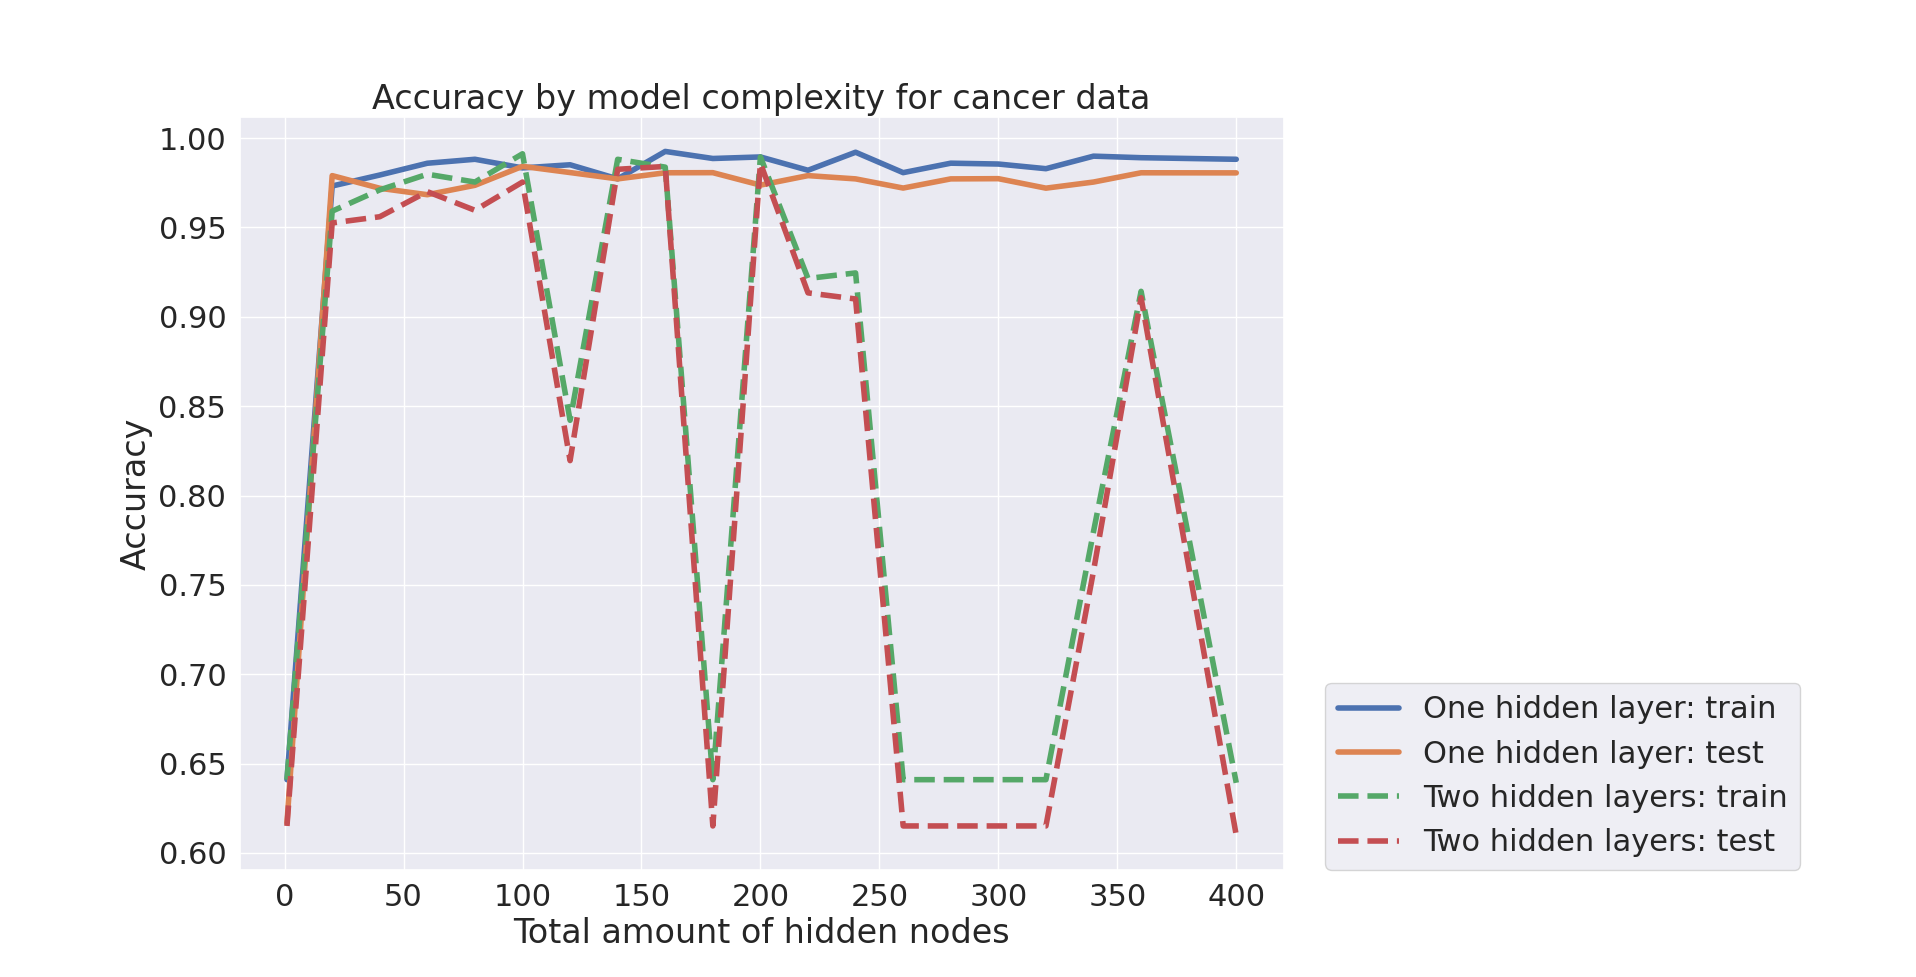
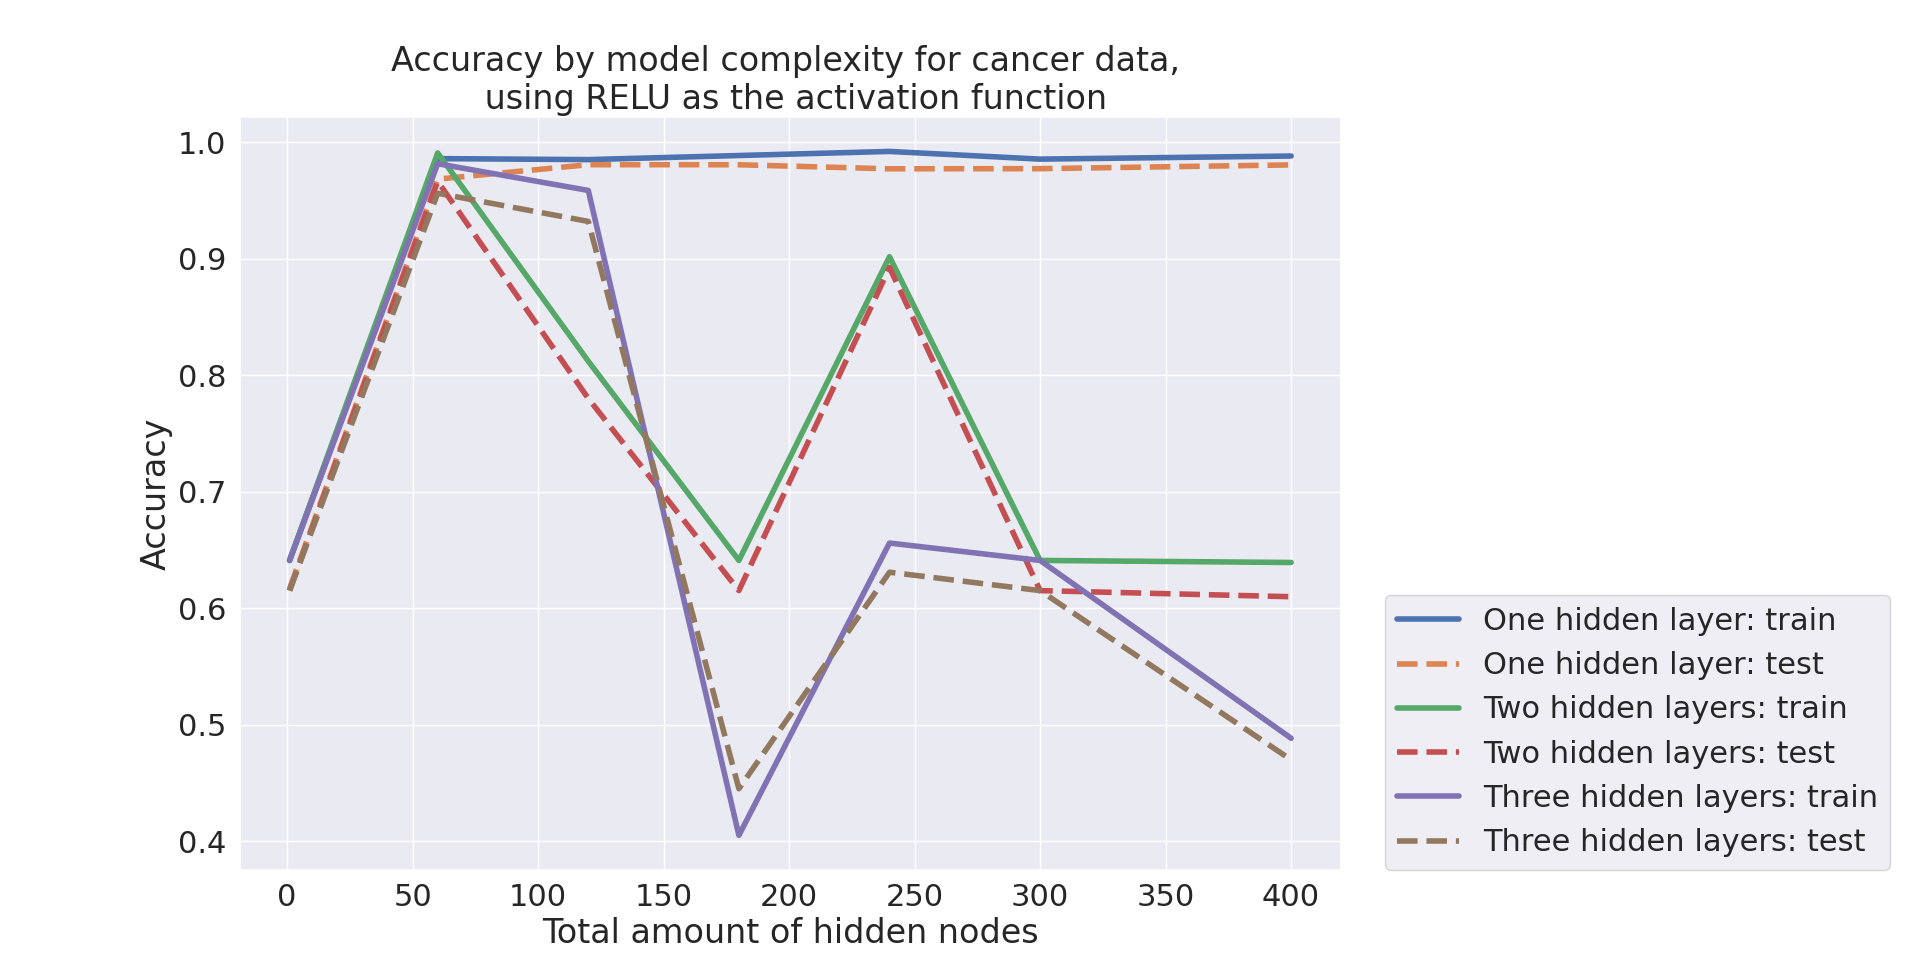
Add stuff

diff --git a/doc/paper.tex b/doc/paper.tex
@@ -103,7 +103,7 @@
 
 \section{Abstract}
 
-We developed a Feed Forward Neural Network (FFNN) and applied it to many common datasets used for benchmarking machine learning algorithms. Furthermore, we compared our results to those attained by linear and logistic regression. To optimize our network, we explored the use of different schedulers in our gradient descent method, and compared their performance against eachother. Overall, we found that our FFNN performed well in all classification tasks we tested, attaining test accuracies between $95$ and $100$ percent for all classification problems. However, we also found that simple logistic regression performed similarly, with a much lower computational cost. For regression on real terrain data, we found that our neural network slightly outperformed our previous polynomial fit, attaining an MSE of MONKEY, PERCENT percent lower than simple linear regression. In our gradient descent, we found that SCHEDULER performed best, being 1 BILLION percent better than the average of all other methods.
+We developed a Feed Forward Neural Network (FFNN) and applied it to both regression and classification problems. Furthermore, we compared our results to those attained by linear and logistic regression. To optimize our network, we explored the use of different schedulers in our gradient descent method, and compared their performance against eachother. Amongst our schedulers, we found that Adam and Adagrad performed the best. Overall, we found that our FFNN performed well in both classification tasks we tested, attaining a test accuracy of $98.76$ on the Wisconsin Breast Cancer Dataset and a test accuracy of $99.07$ on the MNIST 8x8 dataset. However, we also found that simple logistic regression performed similarly, with a much lower computational cost. For regression applied to the Franke Function, we found that our neural net performed worse than a simple polynomial fit using linear regression, attaining a MSE of $0.007$, more than twice as high as the one achieved using linear regression.
 
 %we found our neural net lacking, not being able to beat our polynomial fit from our previous project, and only attaining an MSE of 1 BILLION, which is 2000 BILLION lower than our best polynomial fit of the Franke Function. 
 
@@ -127,14 +127,6 @@ Many problems in machine learning cannot be solved analytically. Thus, we turn t
 In this paper we will investigate implantations of the numerical optimization technique of gradient descent by researching stochastic gradient descent, along with constant, adaptive and momentum-enhanced schedulers with the aim of decreasing the computational cost of our calculations. We will study different supervised learning models which utilize gradient descent such as linear regression, logistic regression and a feed forward neural network (FFNN) in order to gain an understanding of model selection across regression, binary- and multi-class classification problems.
 
 First, we will give an explanation of the methods and theory used in this paper, followed up by a presentation and critical discussion of our results. Finally, we will provide a conclusion summarizing the core results and lessons.
-
-% Neural Networks are all the rage these days, everyone wants to have a neural network in their home. Ive even seen people install neural networks in their dogs. \cite{ericjona}
-
-% Neural networks are powerful tools, able to solve many different problems with 
-
-%%%%%%%%%%%%%%%%%%%%%%%%%%%%%%%%%%%%%%%%%%%%%%%%%%%%%%%%%%%%%%%%%%%%%%
-
-
 
 \section{Method}
 
@@ -264,10 +256,6 @@ Below is a short description of each dataset used in this report, along with a t
 
 The Franke Function is a simple weighted sum of polynomials, taking two inputs and returning a real value. It is commonly used to test machine learning algorithms for regression problems.
 
-\subsubsection{Elevation data over Norway}
-
-This data is similar to the Franke Function in that it takes two inputs (x and y coordinates) and returns a real value, which is the elevation of a specific point in Norway.
-
 \subsubsection{Wisconsin Breast Cancer Dataset}
 
 This dataset contains 30 features describing important characteristics of tumors. The features are real numbers. Each instance has an associated class, indicating whether the tumor was benign or not. This leads to a binary classification problem.
@@ -285,7 +273,6 @@ This dataset contains a preprocessed set of black and white images of hand drawn
 Dataset & Number of instances & Features & Type \\
 \hline
 Franke Function & synthetic & 2 & regression \\
-Terrain (downscaled) & 204 800 & 2 & regression \\
 Wisconsin Breast Cancer & 569 & 30 & binary classification \\
 MNIST 8x8 & 1797 & 64 & multiclass classification (10 classes) \\
 \hline
@@ -312,21 +299,29 @@ However, when trained for 500 epochs, Adam with optimal parameters does not yiel
 
 \subsection{Neural Network for regression}
 
-Having gained a great understanding of how the different schedulers function, and having created the necessary infrastructure to study our models performance based on a number of different factors, we use these methods to optimize our neural network for linear regression. More specifically, we attempt to fit the Franke function. First, we perform a preliminary test on MSE over model complexity. For comparisons sake, we use the same scheduler for each architecture, and fix the regularization parameter at 0. By fixing the regularization parameter at 0, we are of course favouring less complex models, but this a good way to get a general sense of when the model starts to overfit. Using the sigmoid activation function, we can study the MSE as a function of the total hidden node count (Fig.~\ref{msebymodelfranke}). Here we can see that we are not overfitting
+Having gained an understanding of how the different schedulers function, and having created the necessary infrastructure to study our models performance based on a number of different factors, we use these methods to optimize our neural network for linear regression. More specifically, we attempt to fit the Franke function. First, we perform a preliminary test on MSE over model complexity. For comparisons sake, we use the same scheduler for each architecture, and fix the regularization parameter at 0. By fixing the regularization parameter at 0, we are of course favouring less complex models, but this a good way to get a general sense of when the model starts to overfit. Using the sigmoid activation function, we can study the MSE as a function of the total hidden node count (Fig.~\ref{msebymodelfranke}). Here we see, somewhat surprisingly, that our train and test MSE are not deviating particularly much from eachother, even with very complex networks. There are many reasons that this may be the case. As we have stated before, once we start using numerical methods, computational effort becomes a large factor in any test one does, and many decisions have to made regarding how much time can be spent on each test. Due to these computational constraints, we have not been able to grid search for the best parameters for each model complexity, nor have we been able to train for more than 200 epochs for each model. These shortcomings will greatly affect how our models perform, as it is unlikely that each model uses the same learning rate and scheduler, or that more complex models use the same amount of epochs to train their weights. Based on this, we can assume that the higher complexity models have not been trained enough, and that this explains why both their train and test MSE are higher than the less complex models. Regardless, it seems that for up to about 200 total nodes, three hidden layers does the best, and as such we chose an architecture of three hidden layers with 66 nodes each (which is where we achieved our lowest MSE).
 
 \begin{figure}[h]
 \centerline{\includegraphics[width=6in]{figure/msebymodelfranke.png}}
-\caption{Doge}
+\caption{Comparison between a neural net with one hidden layer, and one with two hidden layers, for different totals of hidden nodes. For the network with two hidden layers, the total is evenly divided between the layers, such that at $x = 60$ we have a network with two hidden layers of 30 nodes each. In this case, the hidden layers used the sigmoid activation function.}
 \label{msebymodelfranke}
 \end{figure}
 
-For the organic terrain data used in our previous project, we found that our neural net performed slightly better, gaining an MSE of NUMBER, which was about PERCENTAGE better than our best polynomial fit. However, looking at our prediction visually, and also comparing the MSE to the one gained on the Franke Function, we see that we are still lacking. For terrain data like this, which contain a lot of spatial information, we believe that Convolutional Neural Networks could be a better fit.
+Using this architecture, we performed a gridsearch. Due to time constraints, we have felt it necessary to limit our gridsearch to only two schedulers. Based on our testing with linear regression with gradient descent, we have seen that Adam and Adagrad seems to be the best performers. Based on Goodfellows recommendations, we started with the RELU activation function \cite[188]{gbc}. With this, we found Adam to be the best scheduler, with an eta of 0.01 and no regularization. However, when using these parameters, we encountered the so called "dying RELU problem", where too many of our RELU nodes output zero, leading to our gradient descent slowing down and eventually stopping completely. A better weight initialization, for example using Xavier Initilization, could solve this problem, but another way to circumvent this issue is to use Leaky RELU. This activation function has a small but non-zero gradient for negative values, instead of zero as with RELU. Gridsearching with Leaky RELU instead gave the exact same parameters.
+
+Using these parameters along with Adam and LRELU, we acheived and MSE of VERYNICE, which is better than the results gained using gradient descent on our polynomial fit. Furthermore, we beat our gradient descended polynomial fit after a very short amount of epochs, achieving MSEs lower than 0.011 (the best gradient descended polynomial fit) after only EPOCH epochs. We can see that by not forcing our model to try and find a polynomial fit, we are achieving better results more quickly. However, we are still not able to beat the analytical solution to the best polynomial fit at polynomial degree 9, which is somewhat disappointing. A possible explanation for this is that the Franke function can be represented as a weighted sum of polynomials, and as such a polynomial fit is especially suited to approximate this function. Our neural net must learn the relation between the inputs and outputs on its own, a process which is computationally intensive and difficult. Looking at our predicted terrain (Fig.~\ref{predterrain}), we can see that our prediction is somewhat reasonable, but not entirely convincing.
+
+\begin{figure}[h]
+\centerline{\includegraphics[width=6in]{figure/Franke_fit_66x3_lam0.png}}
+\caption{Comparison of our prediction of }
+\label{predterrain}
+\end{figure}
 
 \subsection{Neural Network for binary and multiclass classification}
 
-To test our neural networks ability to solve classification problems, we first applied it to the Wisconsin Breast Cancer dataset. But to get the best results, there are a large amount of parameters that need to be decided on. We must find the best architecture, the best, activation functions, best scheduler and the best parameters for the scheduler. Finding the absolute best combination of all these choices is impossible, so compromises must be made.
+With mediocre results on regression, we turn to classification. To test our neural networks ability to solve classification problems, we first applied it to the Wisconsin Breast Cancer dataset. But to get the best results, there are a large amount of parameters that need to be decided on. We must find the best architecture, the best activation functions, best scheduler and the best parameters for the scheduler. Finding the absolute best combination of all these choices is impossible, so compromises must be made.
 
-We start by trying to find a good model complexity, i.e the best number of hidden layers, and the amount of nodes in them. To do this, we plotted the accuracy over different model architectures. Like we did during regression, we fix all the other parameters and study the architecture by itself. Using the sigmoid activation function (Fig.~\ref{cancerarchcompsigmoid}), our results are somewhat surprising. We see that even at 800 total hidden nodes, we are not overfitting. Regardless of this peculiarity, we can see that the gain from using more layers and more nodes is miniscule. Using the RELU activation function, the results are quite different, as can be seen in Fig.~\ref{cancerarchcomp}. Here we can observe that the neural net with two hidden layers starts performing very inconsistently when the number of nodes increases. Looking more closely at the training process, we can see that training stops completely in some of our crossvalidations. Clearly, we are running into the "dying RELU problem", where too many of our RELU nodes output zero, leading to our gradient descent slowing down and eventually stopping completely. Here we can clearly see some of the benefits of the sigmoid, as even if the gradients become very small, they will never be zero, as with RELU. Based on these findings, we decided to use a simple model with a single hidden layer of 100 nodes.
+We start by trying to find a good model complexity, i.e the best number of hidden layers, and the amount of nodes in them. To do this, we plotted the accuracy over different model architectures. Like we did during regression, we fix all the other parameters and study the architecture by itself. Using the sigmoid activation function (Fig.~\ref{cancerarchcompsigmoid}), our results are somewhat surprising. We see that even at 400 total hidden nodes, we are not overfitting. This implies that the dataset is quite homogenous, and that the test set is very similar to our training set. With such a dataset, it is possible to gain a very good fit using more and more complex models, although the computational effort obviously increases as well. Moreover, it is not given that instances outside this dataset are as homogenous as the relatively small (569) sample we have here, so one should be careful to use an overcomplex model even if it does not hurt the test accuracy for this particular dataset. Using the RELU activation function, the results are quite different, as can be seen in Fig.~\ref{cancerarchcomp}. Here we can observe that a neural net with two or three hidden layers starts performing very inconsistently when the number of nodes increases. Looking more closely at the training process, we can see that training stops completely in some of our crossvalidations. Clearly, we are again running into the "dying RELU problem". Here we can clearly see some of the benefits of the sigmoid, as even if the gradients become very small, they will never be zero, as with RELU. Regardless, we see similar performance for RELU using only one hidden layer. Based on these findings, we decided to use a model with a single hidden layer of 100 nodes, using the RELU activation function.
 
 \begin{figure}[h]
 \centerline{\includegraphics[width=6in]{figure/cancerarchcompsigmoid.png}}
@@ -368,7 +363,7 @@ Based on our good results with the neural net, we attempt to solve the same prob
 
 \section{Conclusion}
 
-In this paper we have explored the use of a Feed Forward Neural Network for both regression and classification. We have studied how different schedulers, 
+In this paper we have explored the use of a Feed Forward Neural Network for both regression and classification. We have studied how different schedulers, affect the gradient descent
 
 \bibliographystyle{apalike}
 \bibliography{bibliography}
@@ -378,13 +373,19 @@ In this paper we have explored the use of a Feed Forward Neural Network for both
 The next pages contain plots and tables that are of interest.
 
 \begin{table*}
-\caption{This table shows the command to execute to reproduce every figure in the report. (More info about the scripts and their parameters can be found in the README)}
+\caption{This table shows the file which created every plot in the report}
 \begin{center}
 \label{allparamstable}
 \begin{tabular}{c | l l l}
-Figure & Shell command (leading \texttt{python3} omitted) \\
+Figure & Shell command \\
 \hline
-\ref{frankenonoise} & \texttt{task\_b.py --noise 0 -n 25}\\
+\ref{verification} & \texttt{python3 testing/verification.py}\\
+\ref{cancerconflog} & \texttt{python3 task\_d.py}\\
+\ref{cancerconf} & \texttt{python3 task\_d.py}\\
+\ref{cancerlogneur} & \texttt{python3 task\_d.py}\\
+\ref{cancerarchcomp} & \texttt{python3 bycomplexitycancer.py}\\
+\ref{cancerarchcompsigmoid} & \texttt{python3 bycomplexitycancer.py}\\
+\ref{msebymodelfranke} & \texttt{python3 bycomplexityfranke.py}\\
 \hline
 \end{tabular}
 \end{center}
